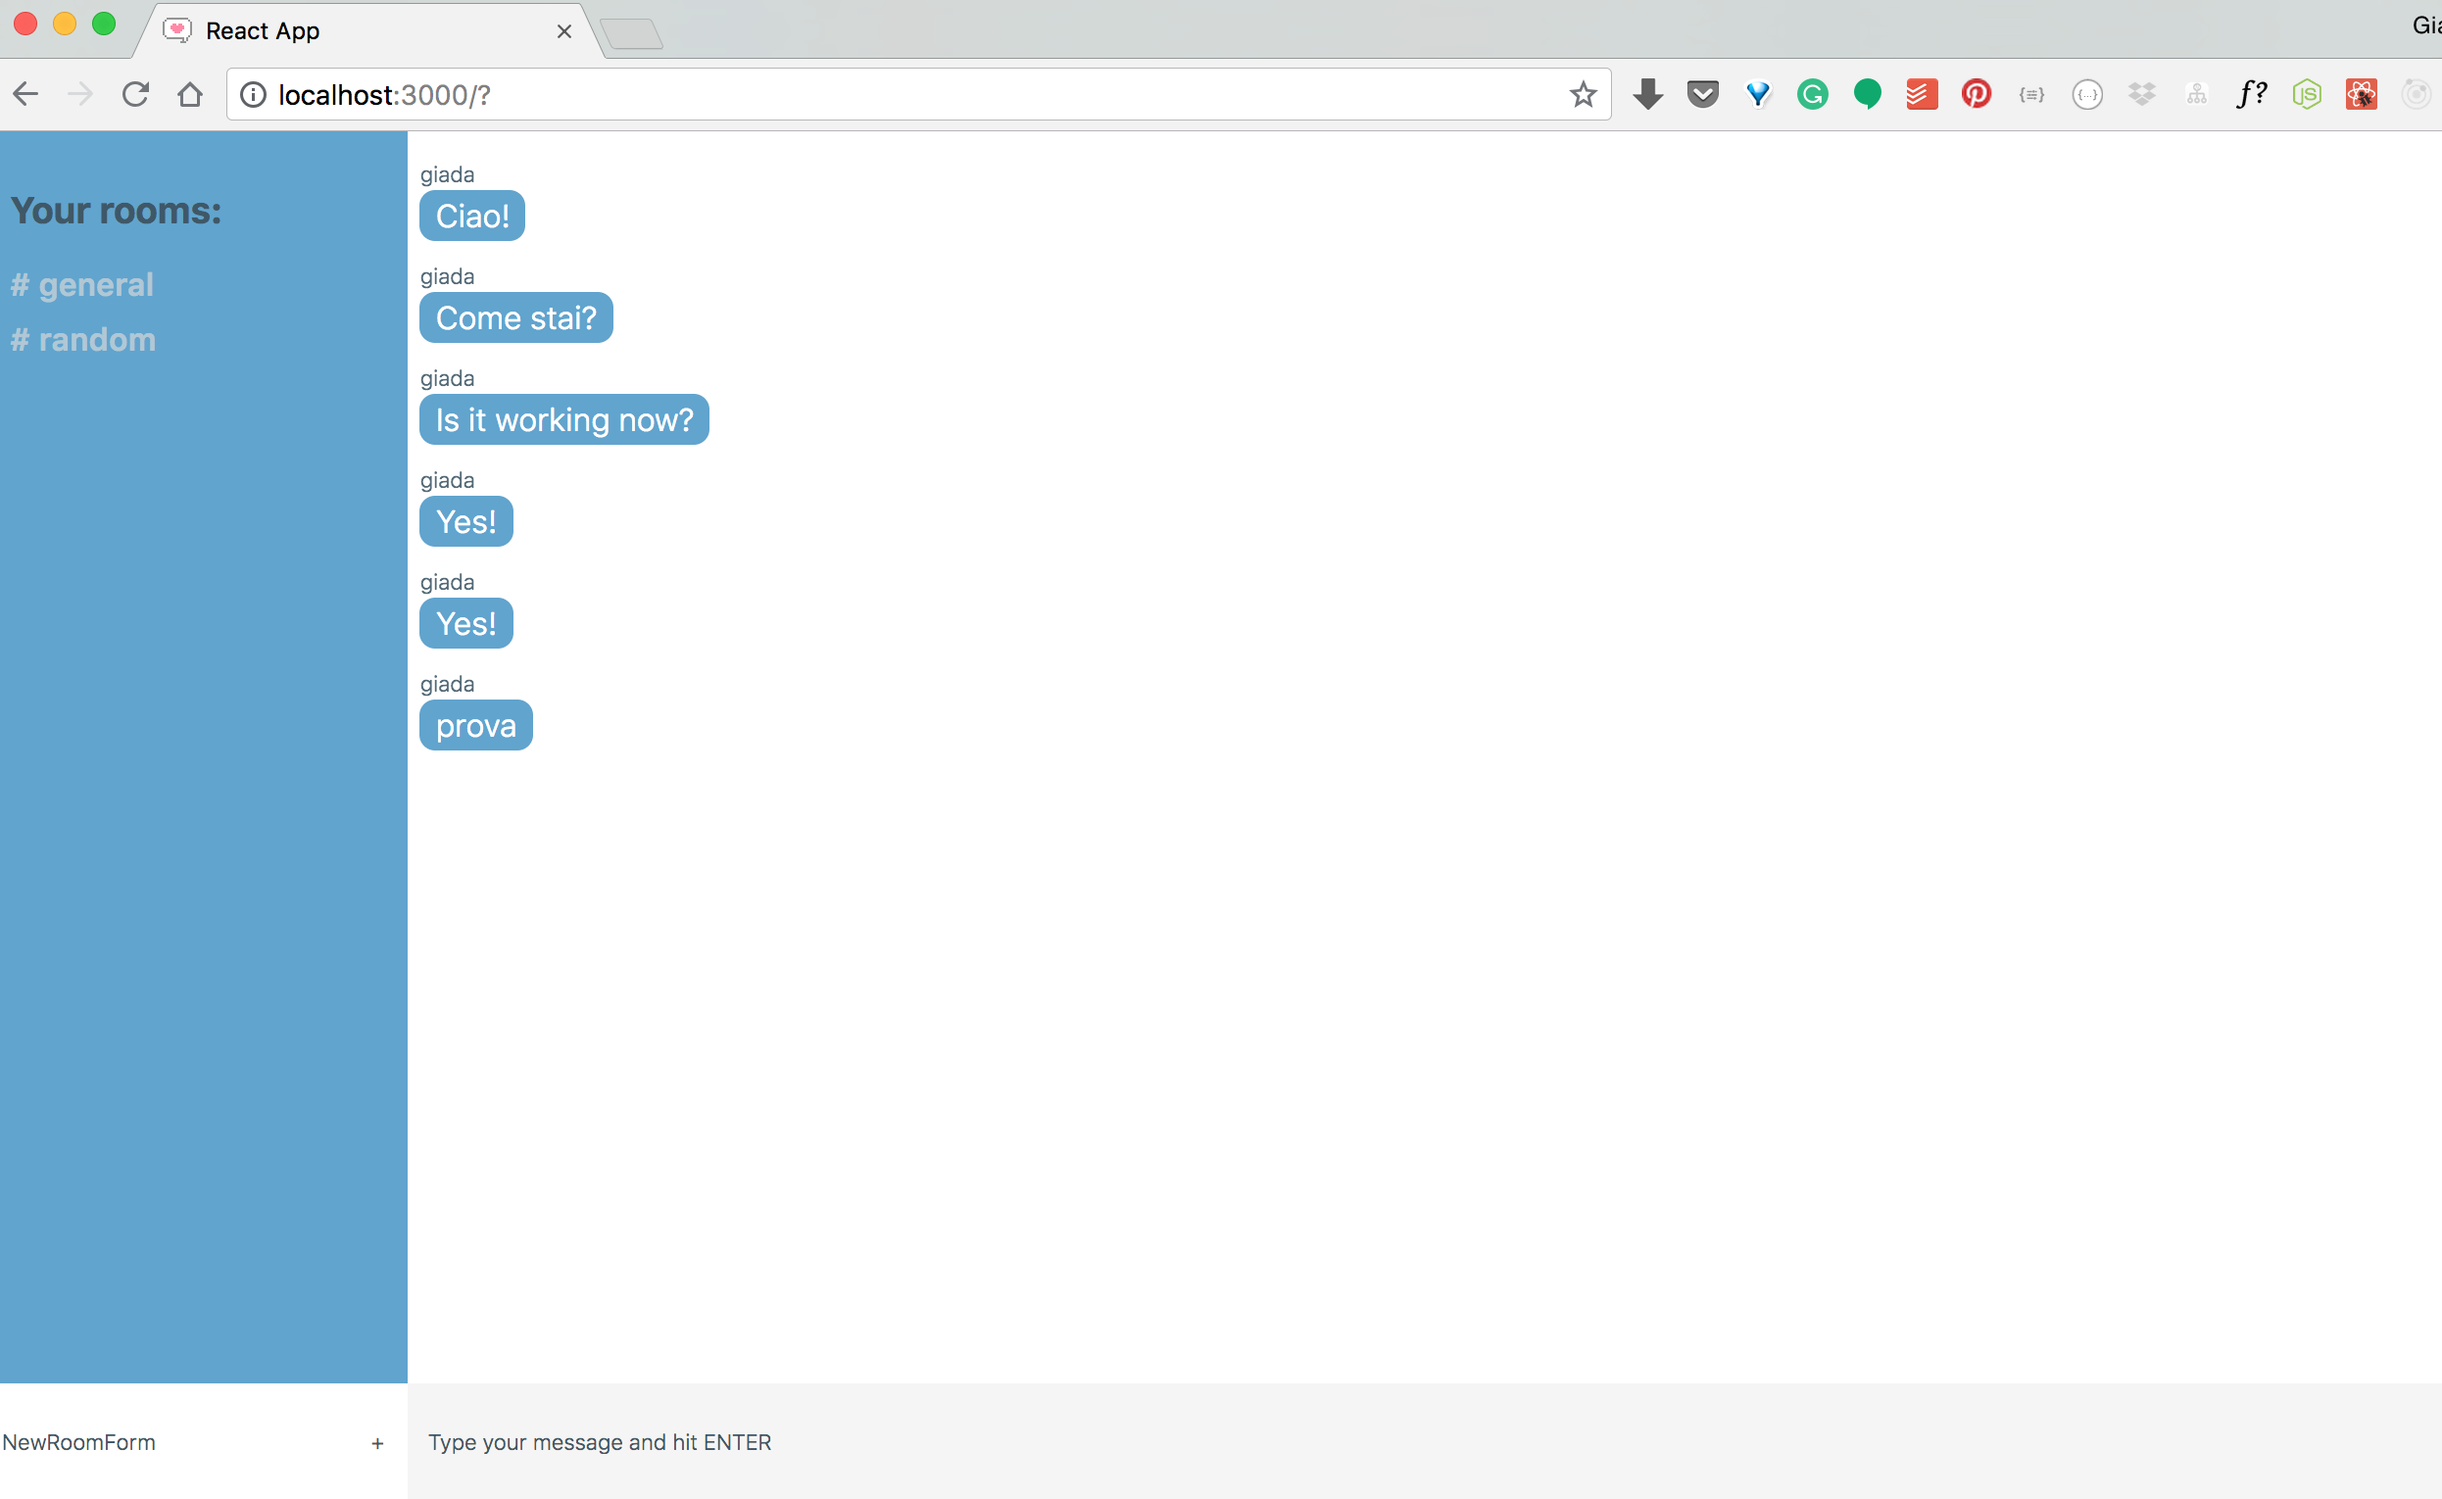
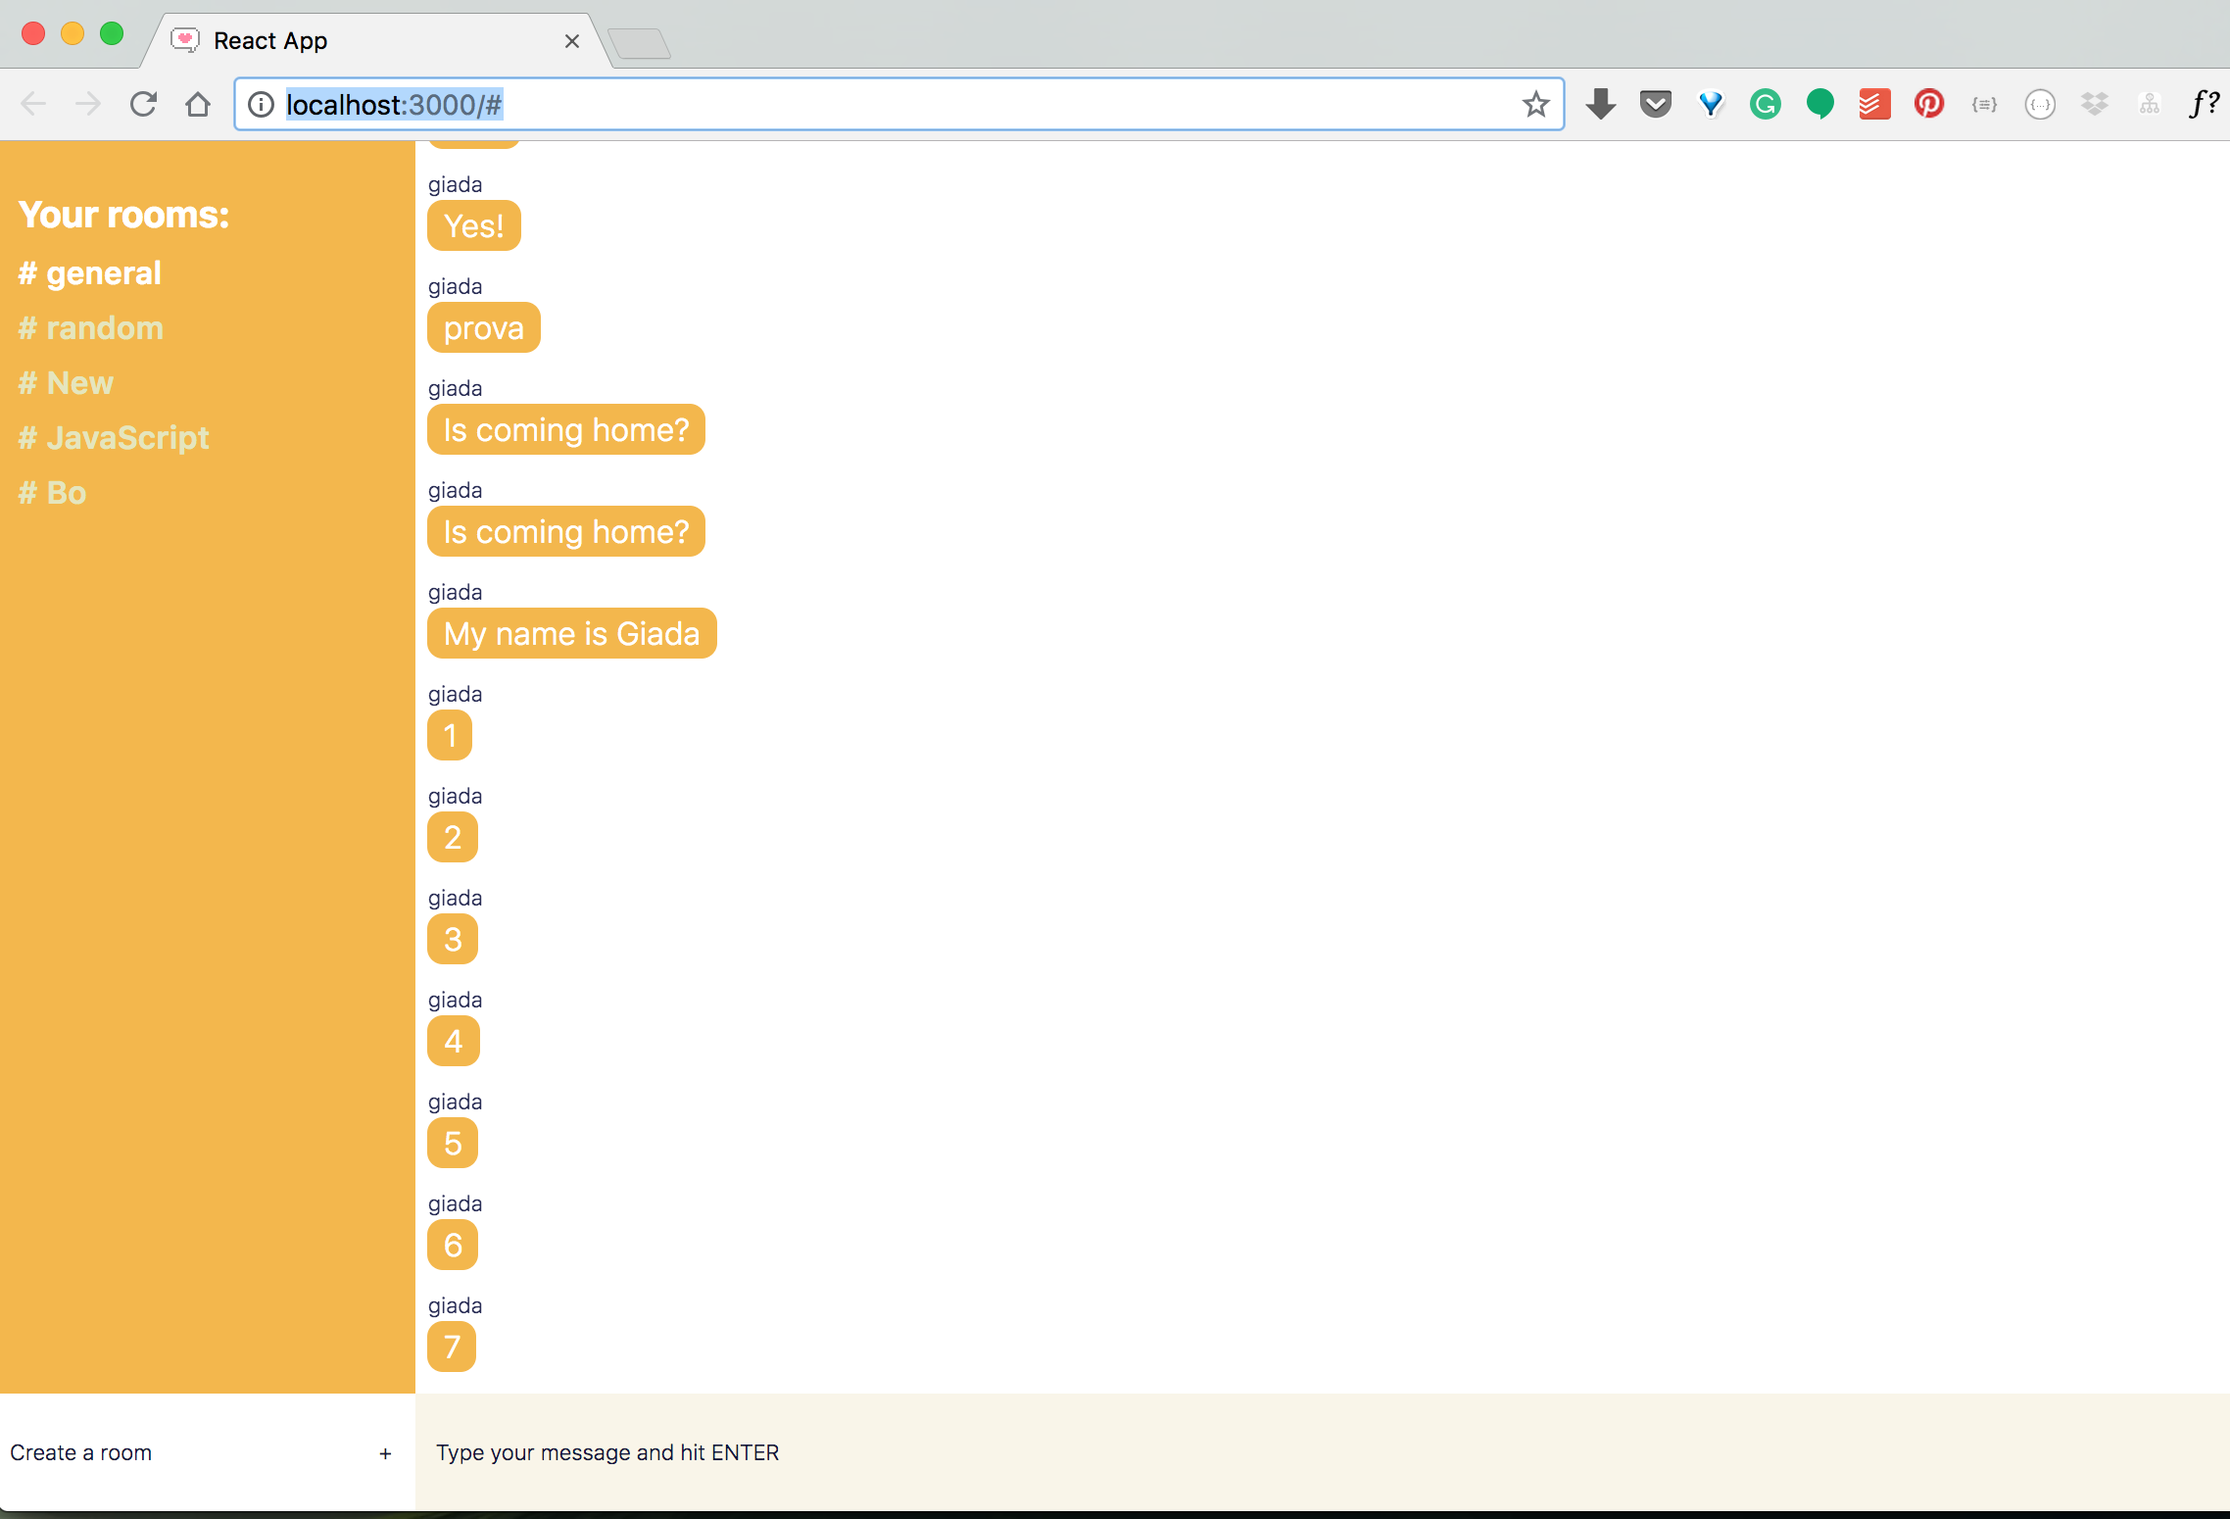
Update README

Changed region(s): [[0.0, 0.0, 1.0, 0.9216], [0.0, 0.9523, 1.0, 1.0]]

diff --git a/src/App.css b/src/App.css
@@ -1,11 +1,3 @@
-/* :root {
-    --main-color: #5ea3d0;
-    --secondary-color: white;
-    --main-text-color: #3e5869;
-    --secondary-text-color: #b0c7d6;
-    --send-message-form: #F5F5F5;
-} */
-
 :root {
     --main-color: #f4b841;
     --secondary-color: white;

diff --git a/README.md b/README.md
@@ -3,8 +3,7 @@
 A simple ract chat app built by following the [Scrimba-Building a chat app with React.js and Chatkit](https://scrimba.com/playlist/pbNpTv).
 
 
-![image](./public/images/1.png?raw=true)
-![image](./public/images/2.png?raw=true)
+![chat-app](./public/images/1.png?raw=true)
 
 ## My approach
 
